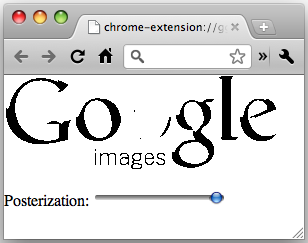
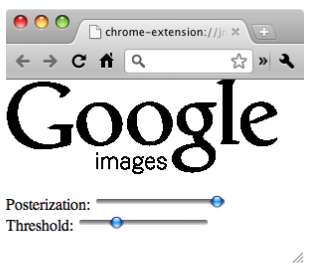
Updated sample to include two sliders.

diff --git a/static/samples/grayscaler/popup.html b/static/samples/grayscaler/popup.html
@@ -23,11 +23,10 @@
         });
       };
       
-      function paintGrayscale(threshold) {
-        if (!threshold) {
-          threshold = 1;
-        }
-        
+      function paintGrayscale() {
+        var poster = parseInt(document.querySelector('#inputPoster').value);
+        var thresh = parseInt(document.querySelector('#inputThresh').value);
+
         var buffer = document.querySelector('#buffer');
         var bufferContext = buffer.getContext('2d');
         
@@ -36,8 +35,8 @@
         output.width = buffer.width;
         output.height = buffer.height;
         
-        var imagedata = bufferContext.getImageData(0, 0, 
-                                                   buffer.width, buffer.height);
+        var imagedata = bufferContext.getImageData(
+                          0, 0, buffer.width, buffer.height);
             
         for (var i = 0; i < imagedata.data.length; i += 4) {
           var r = imagedata.data[i];
@@ -45,7 +44,8 @@
           var b = imagedata.data[i + 2];
           
           var gray = (0.3 * r) + (0.59 * g) + (0.11 * b);
-          gray = Math.round(gray / threshold) * threshold;
+          gray = gray * (thresh / 10.0);
+          gray = Math.round(gray / poster) * poster;
           gray = Math.max(Math.min(gray, 255), 0);
           imagedata.data[i] = gray;
           imagedata.data[i + 1] = gray;
@@ -67,7 +67,7 @@
       };
       
       function onChange(evt) {
-        paintGrayscale(parseInt(this.value));
+        paintGrayscale();
       };
       
       function onLoad(evt) {
@@ -77,8 +77,11 @@
         img.addEventListener('load', onImageLoaded, false);
         img.src = imgUrl;
         
-        var input = document.querySelector('input[type="range"]');
-        input.addEventListener('change', onChange, false);
+        var inputs = document.querySelectorAll('input[type="range"]');
+        Array.prototype.forEach.call(inputs, function(input) {
+          console.log(input);
+          input.addEventListener('change', onChange, false);
+        });
       };
       
       window.addEventListener('load', onLoad, false);
@@ -87,6 +90,7 @@
   <body>
     <canvas id="buffer"></canvas>
     <canvas id="output"></canvas>
-    Posterization: <input type="range" min="1" max="255" value="1"/>
+    <br />Posterization: <input type="range" id="inputPoster" min="1" max="255" value="1"/>
+    <br />Threshold: <input type="range" id="inputThresh" min="1" max="20" value="10"/>
   </body>
 </html>

diff --git a/static/default.css b/static/default.css
@@ -34,7 +34,8 @@ pre code cite {
 }
 
 #wrap {
-  width: 55%;
+  width: 750px;
+  max-width: 80%;
   margin: 0 auto;
   padding: 20px 30px;
   -webkit-box-shadow: 0 1px 4px #aaa;
@@ -66,7 +67,7 @@ pre code cite {
   border: 2px solid #0d0;
   background: #afa;
   border-radius: 20px;
-  font: 22px Arial;
+  font: 26px Arial;
   padding: 10px;
   color: #000;
   text-decoration: none;
